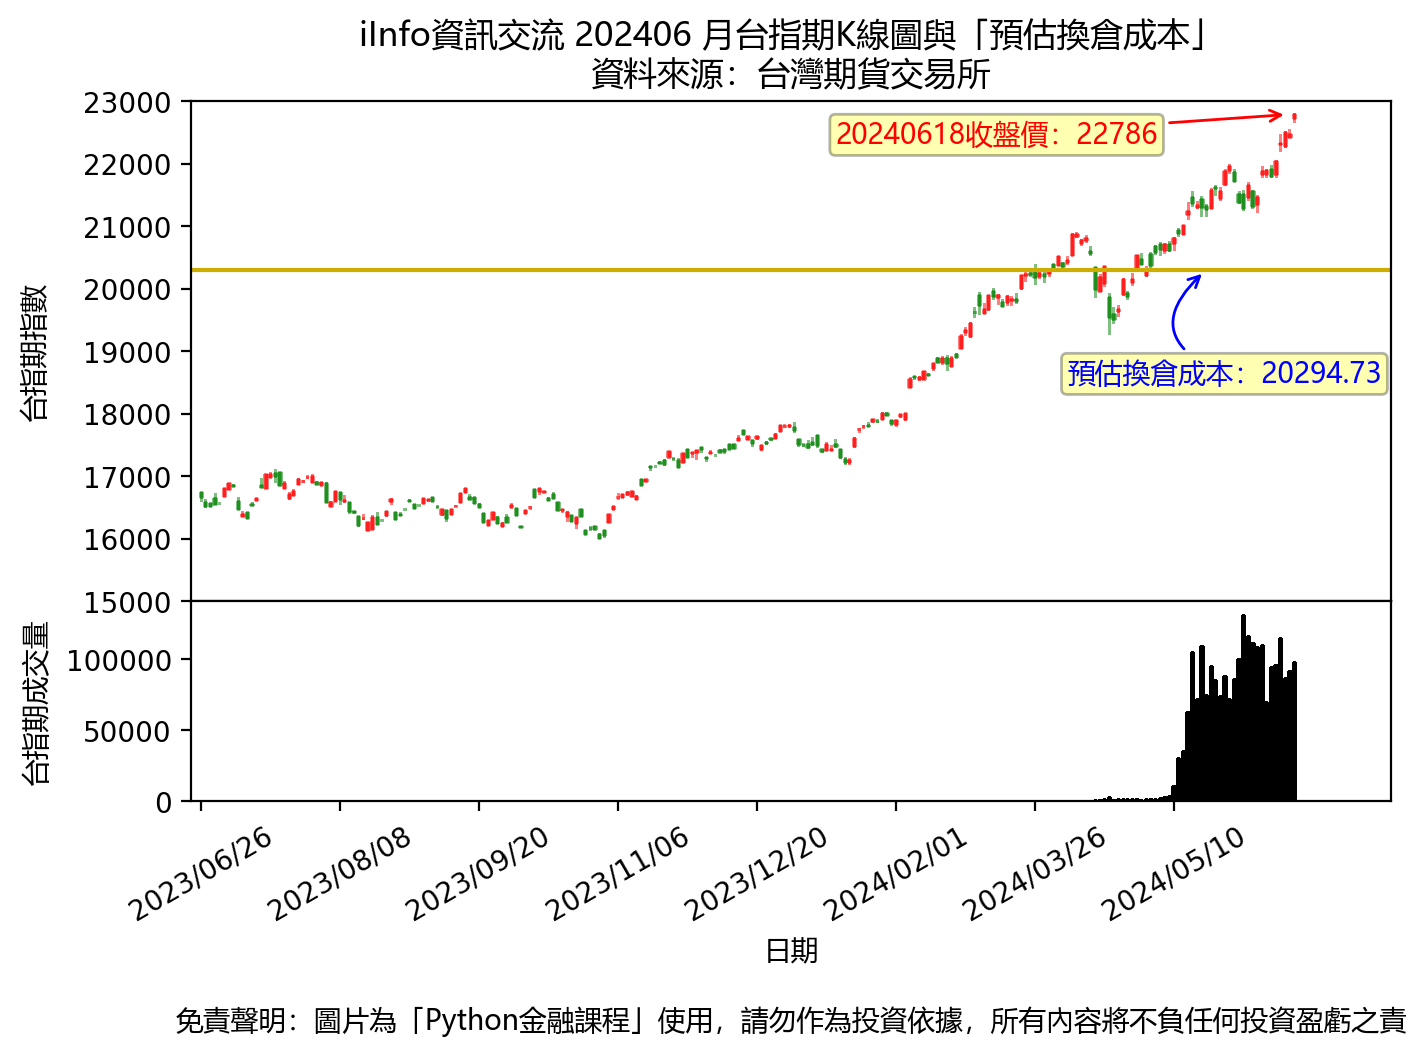
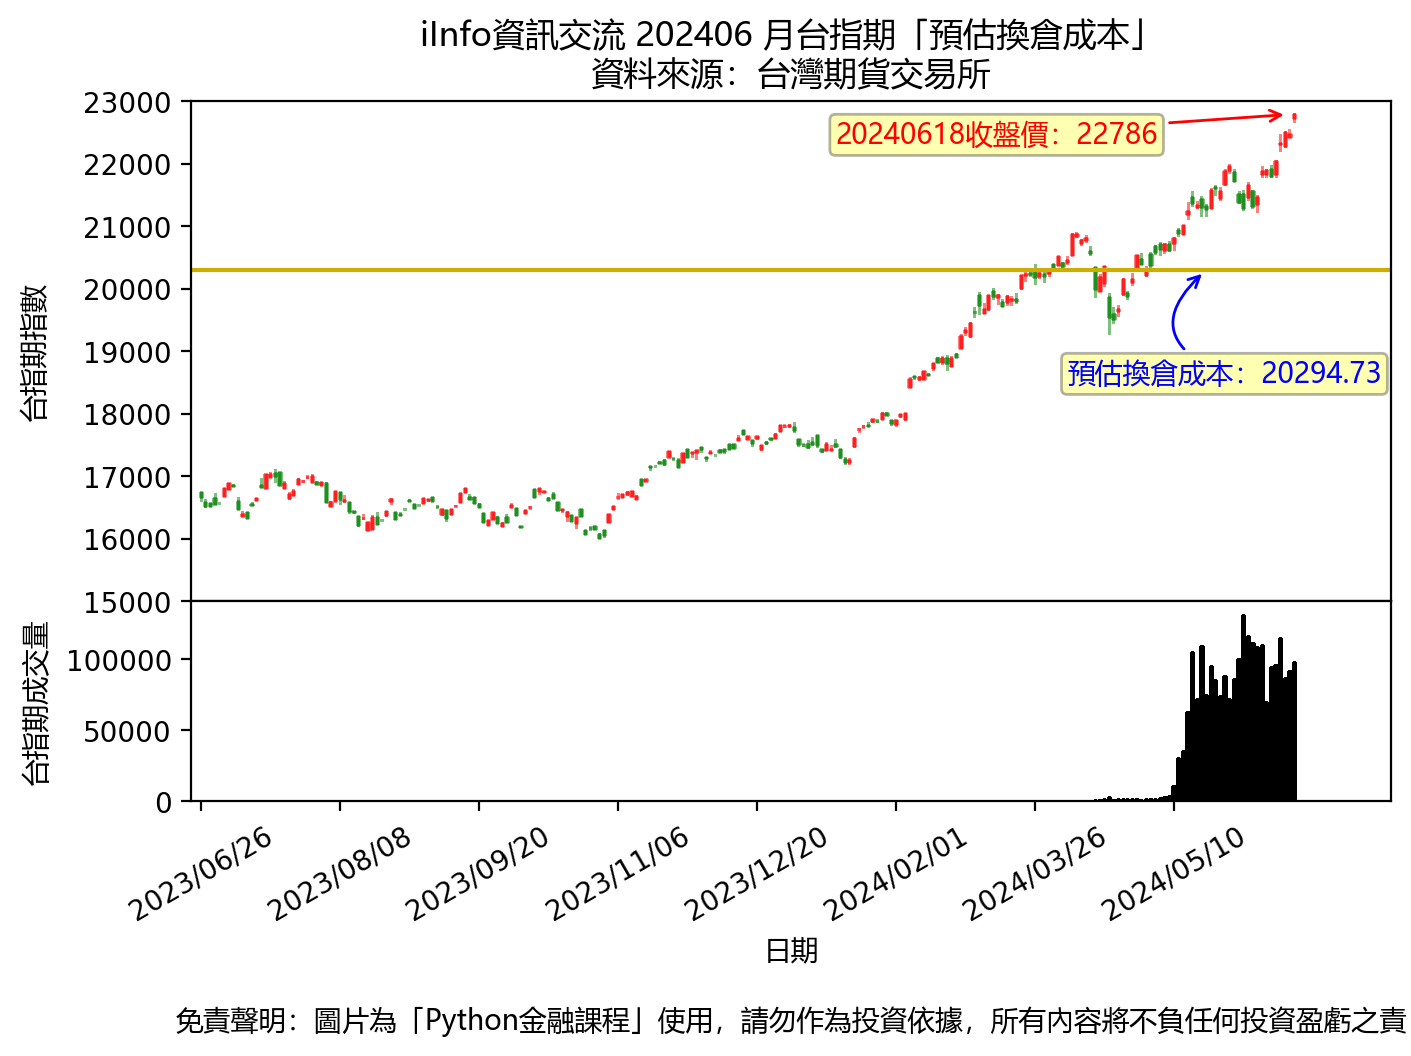
更新時間: Wed Jun 19 10:41:15 CST 2024

Changed region(s): [[0.2495, 0.0, 0.842, 0.0625]]

diff --git a/README.md b/README.md
@@ -1,4 +1,4 @@
-## 20240619 台指期期K線圖與「預估換倉成本」
+## 20240619 台指期「預估換倉成本」
 ![](txfcost.png)
 
 ## 20240619 台指選擇權「Put/Call Ratios」
